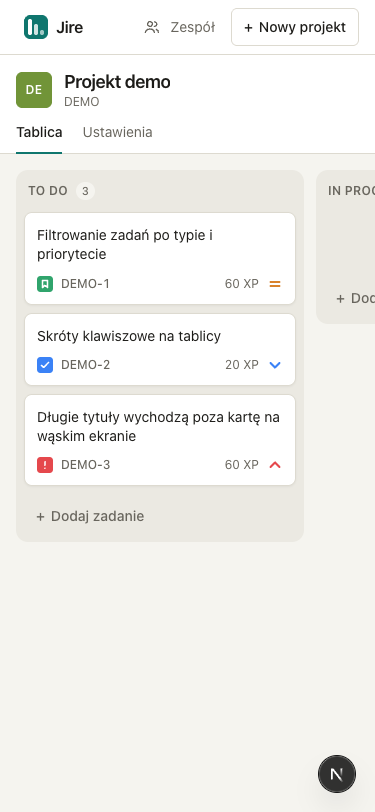
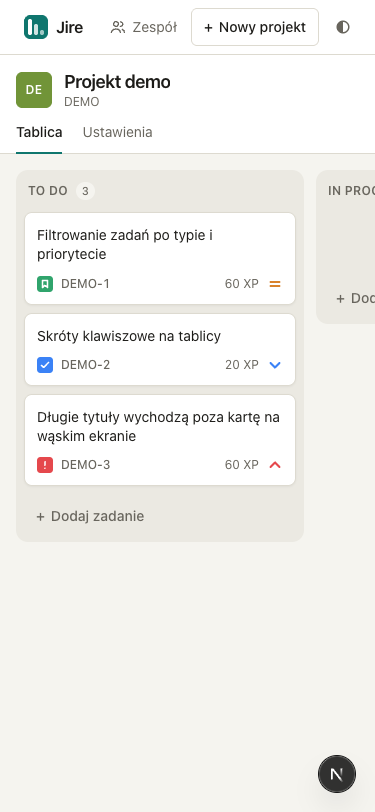
Fit the team link next to the theme button on mobile; refresh screenshots

Changed region(s): [[0.352, 0.0, 0.9387, 0.0616], [0.2933, 0.0308, 0.3227, 0.0616]]

diff --git a/src/components/Sidebar.tsx b/src/components/Sidebar.tsx
@@ -36,7 +36,7 @@ export function Sidebar({
       <Link
         href="/team"
         aria-current={onTeam ? "page" : undefined}
-        className={`ml-auto flex items-center gap-2.5 rounded-md px-2 py-1.5 text-sm transition-colors md:mt-4 md:ml-0 ${
+        className={`ml-auto flex items-center gap-1.5 rounded-md px-1.5 py-1.5 text-sm transition-colors md:mt-4 md:ml-0 md:gap-2.5 md:px-2 ${
           onTeam
             ? "bg-accent-soft font-medium text-fg"
             : "text-muted hover:bg-surface-2 hover:text-fg"
